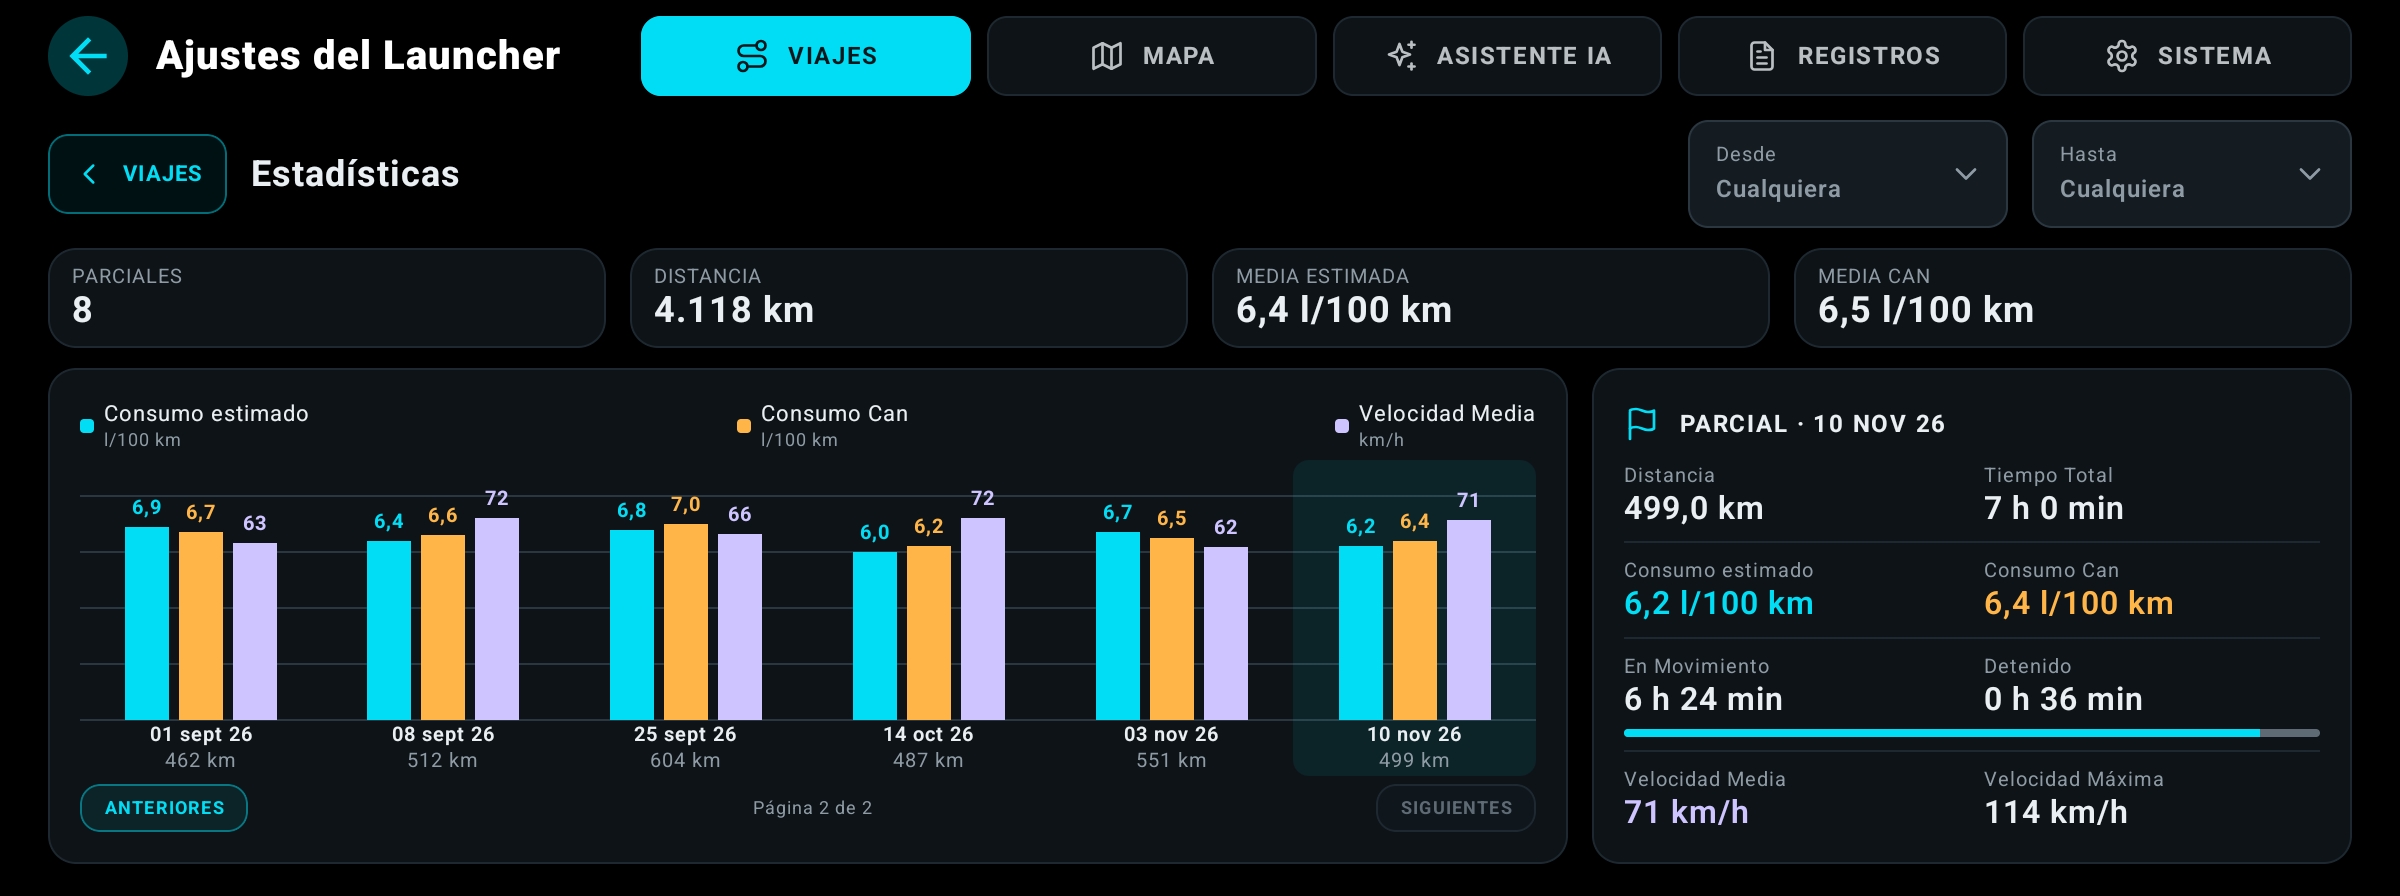
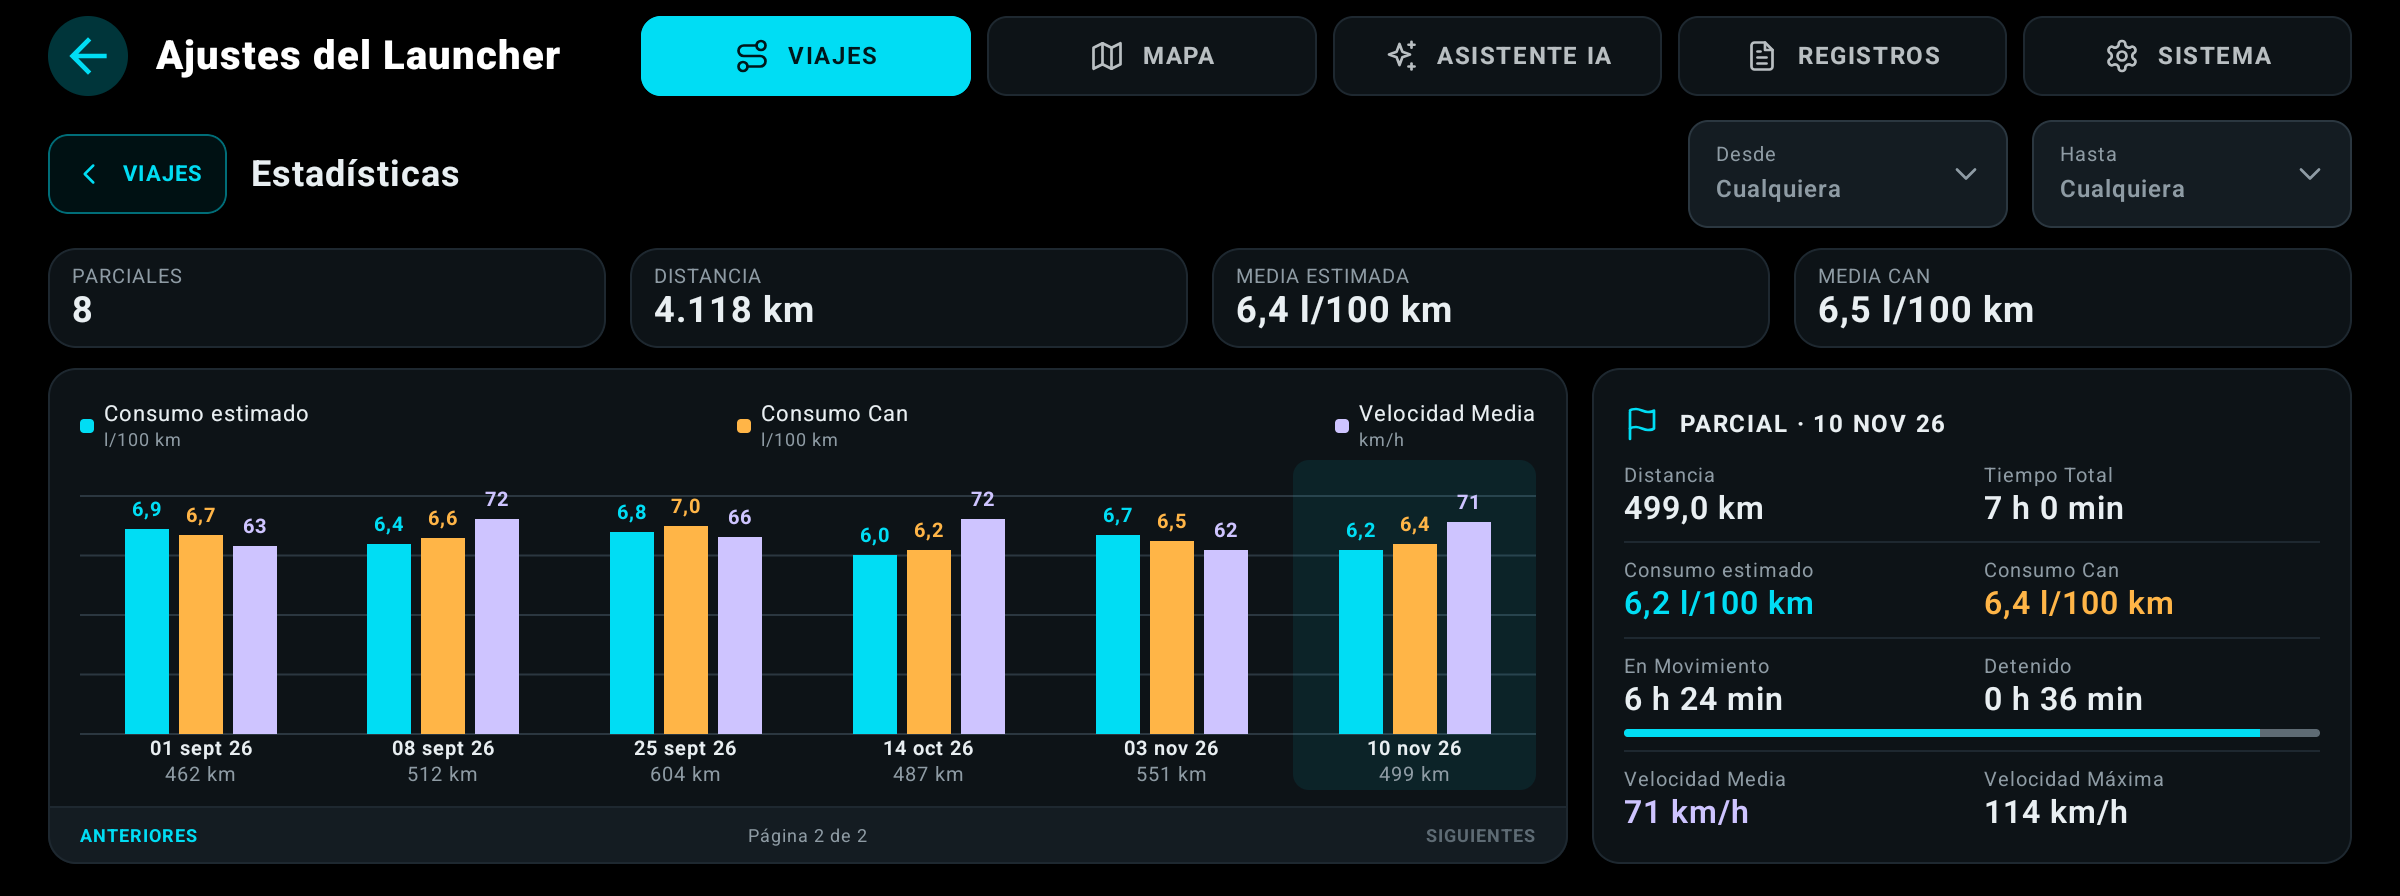
fix(stats): integrate pagination into the chart card footer
Add an edge-to-edge footer with its own background and divider, keeping
the chart padding separate and the page controls integrated in the card.
Refresh Spanish and English README screenshots.

diff --git a/app/src/main/java/com/lito/a5launcher/ui/components/PartialStatisticsPanel.kt b/app/src/main/java/com/lito/a5launcher/ui/components/PartialStatisticsPanel.kt
@@ -2,6 +2,7 @@ package com.lito.a5launcher.ui.components
 
 import androidx.compose.foundation.Canvas
 import androidx.compose.foundation.background
+import androidx.compose.foundation.clickable
 import androidx.compose.foundation.layout.*
 import androidx.compose.foundation.rememberScrollState
 import androidx.compose.foundation.selection.selectable
@@ -109,8 +110,14 @@ internal fun PartialStatisticsPanel(records: List<JourneyHistoryRecord>, onBack:
                         val visibleRecords = partialStatisticsPage(data.records, page)
                         val selected = visibleRecords.firstOrNull { it.id == selectedId } ?: visibleRecords.last()
                         Row(Modifier.fillMaxWidth().weight(1f), horizontalArrangement = Arrangement.spacedBy(12.dp)) {
-                            SettingsCard(Modifier.weight(2f).fillMaxHeight()) {
-                                ConsumptionChart(data.records, visibleRecords, page, { page = it }, selected.id, locale, shortDate) { selectedId = it }
+                            SettingsCard(
+                                Modifier.weight(2f).fillMaxHeight(),
+                                contentPadding = PaddingValues(start = 16.dp, top = 16.dp, end = 16.dp, bottom = 8.dp),
+                                footer = {
+                                    StatisticsPagination(page, (data.records.size + PARTIALS_PER_PAGE - 1) / PARTIALS_PER_PAGE) { page = it }
+                                },
+                            ) {
+                                ConsumptionChart(data.records, visibleRecords, selected.id, locale, shortDate) { selectedId = it }
                             }
                             SettingsCard(Modifier.weight(1f).fillMaxHeight()) {
                                 PartialDetail(selected, locale, shortDate)
@@ -134,7 +141,7 @@ private fun StatisticSummary(label: String, value: String, modifier: Modifier) {
 @Composable
 private fun ConsumptionChart(
     records: List<JourneyHistoryRecord>, visibleRecords: List<JourneyHistoryRecord>,
-    page: Int, onPage: (Int) -> Unit, selectedId: String, locale: Locale,
+    selectedId: String, locale: Locale,
     dateFormatter: DateTimeFormatter, onSelect: (String) -> Unit,
 ) {
     val maximum = remember(records) {
@@ -145,7 +152,6 @@ private fun ConsumptionChart(
         (ceil(records.maxOf { it.statistics.averageSpeedKmh } / 20.0) * 20.0).coerceAtLeast(80.0)
     }
     val speedColor = Color(0xFFCEC4FF)
-    val pages = (records.size + PARTIALS_PER_PAGE - 1) / PARTIALS_PER_PAGE
     Column(Modifier.fillMaxSize(), verticalArrangement = Arrangement.spacedBy(4.dp)) {
         Row(Modifier.fillMaxWidth(), horizontalArrangement = Arrangement.SpaceBetween) {
             ChartLegend(stringResource(R.string.history_statistics_estimated), stringResource(R.string.history_statistics_consumption_unit), SettingsPalette.Accent)
@@ -185,11 +191,30 @@ private fun ConsumptionChart(
                 repeat(PARTIALS_PER_PAGE - visibleRecords.size) { Spacer(Modifier.weight(1f)) }
             }
         }
-        Row(Modifier.fillMaxWidth(), verticalAlignment = Alignment.CenterVertically, horizontalArrangement = Arrangement.spacedBy(12.dp)) {
-            SettingsActionButton(stringResource(R.string.history_statistics_older), 24.dp, fontSize = 9.sp, enabled = page < pages - 1) { onPage(page + 1) }
-            Text(stringResource(R.string.history_statistics_page, pages - page, pages), color = SettingsPalette.MutedText, fontSize = 9.sp, modifier = Modifier.weight(1f), textAlign = androidx.compose.ui.text.style.TextAlign.Center)
-            SettingsActionButton(stringResource(R.string.history_statistics_newer), 24.dp, fontSize = 9.sp, enabled = page > 0) { onPage(page - 1) }
-        }
+    }
+}
+
+@Composable
+private fun StatisticsPagination(page: Int, pages: Int, onPage: (Int) -> Unit) {
+    val locale = LocalConfiguration.current.locales[0]
+    Row(Modifier.fillMaxWidth().height(28.dp), verticalAlignment = Alignment.CenterVertically) {
+        Text(
+            stringResource(R.string.history_statistics_older).uppercase(locale),
+            color = if (page < pages - 1) SettingsPalette.Accent else SettingsPalette.SubtleText,
+            fontSize = 9.sp, fontWeight = FontWeight.Bold,
+            modifier = Modifier.weight(1f).fillMaxHeight()
+                .clickable(enabled = page < pages - 1, role = Role.Button) { onPage(page + 1) }
+                .padding(horizontal = 16.dp).wrapContentSize(Alignment.CenterStart),
+        )
+        Text(stringResource(R.string.history_statistics_page, pages - page, pages), color = SettingsPalette.MutedText, fontSize = 9.sp)
+        Text(
+            stringResource(R.string.history_statistics_newer).uppercase(locale),
+            color = if (page > 0) SettingsPalette.Accent else SettingsPalette.SubtleText,
+            fontSize = 9.sp, fontWeight = FontWeight.Bold,
+            modifier = Modifier.weight(1f).fillMaxHeight()
+                .clickable(enabled = page > 0, role = Role.Button) { onPage(page - 1) }
+                .padding(horizontal = 16.dp).wrapContentSize(Alignment.CenterEnd),
+        )
     }
 }
 

diff --git a/app/src/main/java/com/lito/a5launcher/ui/components/SettingsComponents.kt b/app/src/main/java/com/lito/a5launcher/ui/components/SettingsComponents.kt
@@ -89,6 +89,7 @@ internal val SettingsControlShape = RoundedCornerShape(SettingsDimensions.Contro
 internal fun SettingsCard(
     modifier: Modifier = Modifier,
     contentPadding: PaddingValues = PaddingValues(SettingsDimensions.CardPadding),
+    footer: (@Composable () -> Unit)? = null,
     content: @Composable ColumnScope.() -> Unit,
 ) {
     val shape = RoundedCornerShape(SettingsDimensions.CardRadius)
@@ -97,9 +98,18 @@ internal fun SettingsCard(
             .clip(shape)
             .background(SettingsPalette.Card)
             .border(1.dp, SettingsPalette.Border, shape)
-            .padding(contentPadding),
-        content = content,
-    )
+            .then(if (footer == null) Modifier.padding(contentPadding) else Modifier),
+    ) {
+        if (footer == null) {
+            content()
+        } else {
+            Column(Modifier.weight(1f).padding(contentPadding), content = content)
+            Column(Modifier.fillMaxWidth().background(SettingsPalette.Raised)) {
+                SettingsDivider()
+                footer()
+            }
+        }
+    }
 }
 
 /** Card heading: accent pictogram, uppercase title and an optional trailing slot. */
